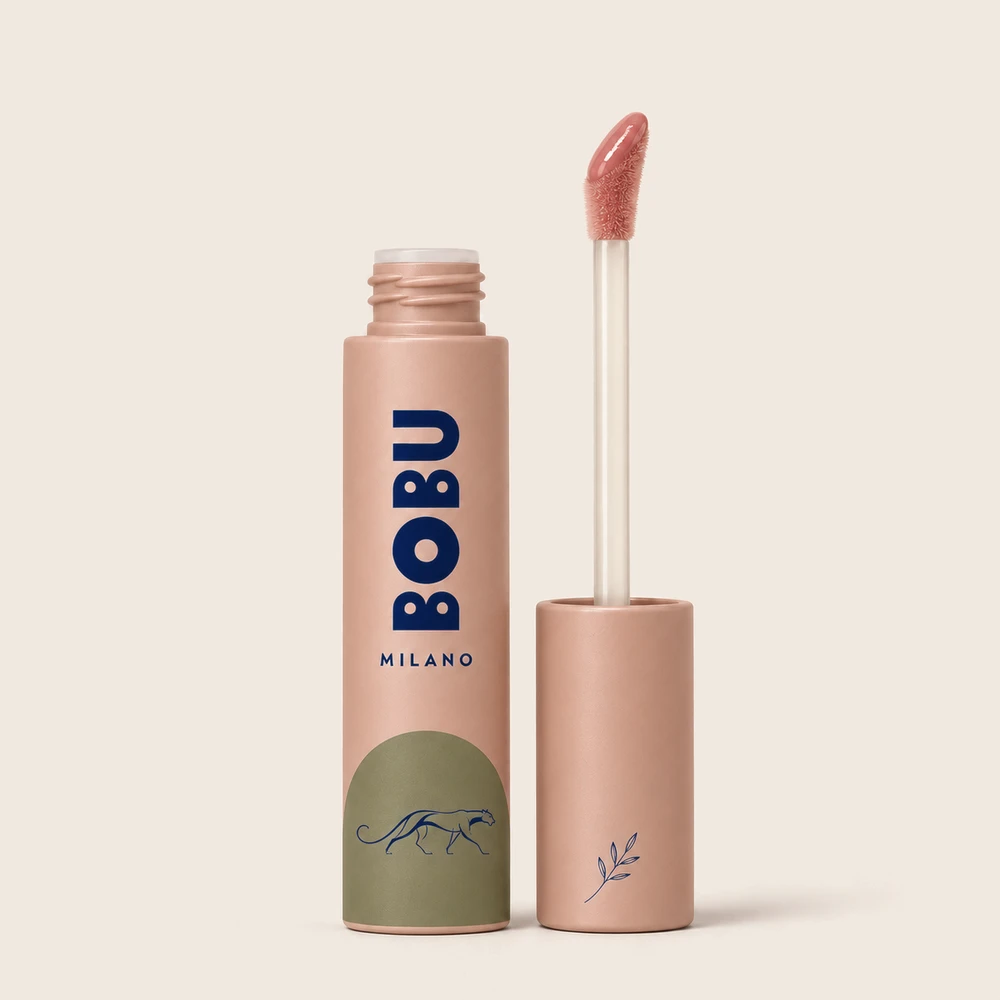
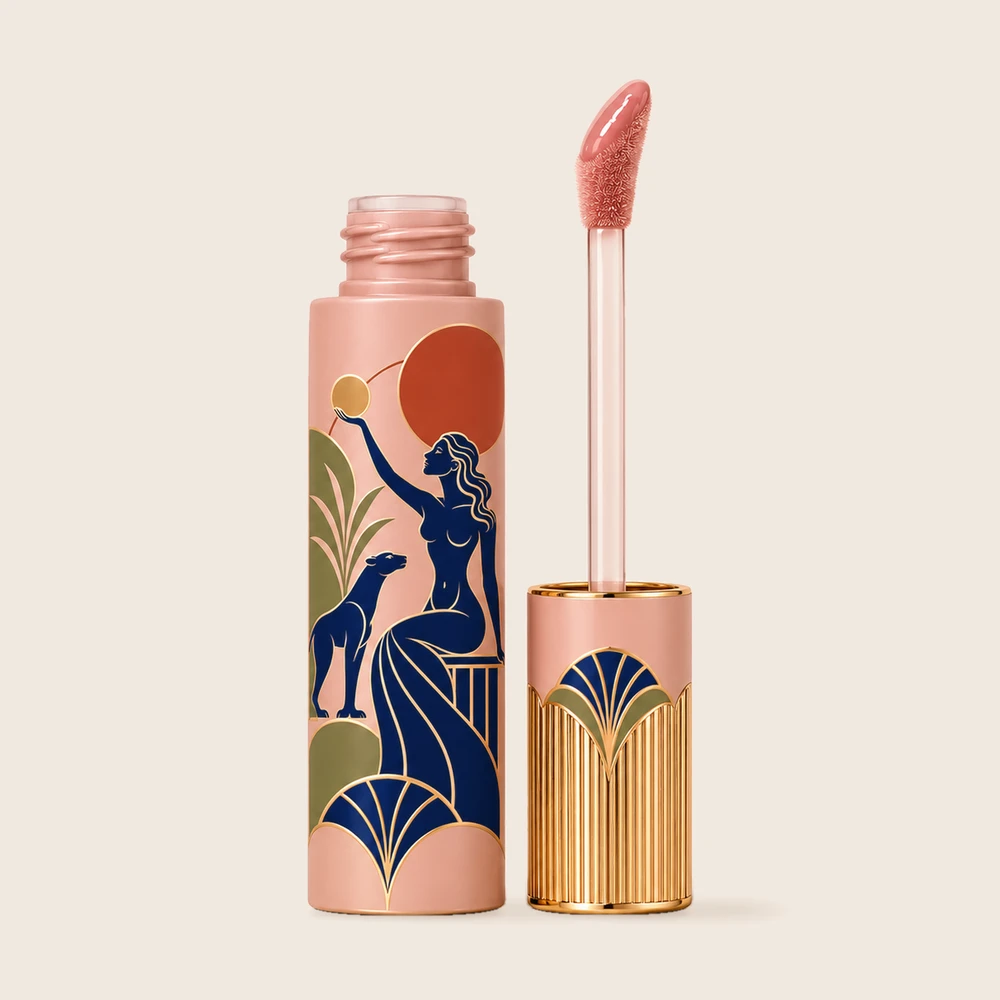
Add gloss shots, make close-ups fill their tiles, clearer swipe dots

Changed region(s): [[0.31, 0.062, 0.775, 0.961]]

diff --git a/store.js b/store.js
@@ -44,8 +44,8 @@ function buttonLink(href,text,cls=''){return `<a class="button ${cls}" href="${h
 function art(name,cls=''){return `<img class="${cls}" src="${A}art/${name}.svg" alt="" loading="lazy">`}
 function stage(p,cls=''){return `<div class="product-stage ${cls}" data-type="${p.id}"><div class="plate">${shotImages(p,'plate-shot')}</div></div>`}
 function filmPlate(){return `<div class="plate film-plate"><video muted loop playsinline preload="metadata" poster="${A}film/formula.jpg" aria-label="BOBU foundation texture and product film"><source src="${FILM}" type="video/mp4"></video><button class="film-play" type="button" aria-label="Play the film"><svg viewBox="0 0 24 24" aria-hidden="true"><path d="M8 5l11 7-11 7z"/></svg></button></div>`}
-const SHOTS={"foundation": "foundation.webp", "concealer": "concealer.webp", "blush": "blush.webp", "lip": "lip-open.webp", "gloss": "gloss.webp"},GALLERIES={"lip": ["lip-open.webp", "lip-top.webp", "lip.webp"], "foundation": ["foundation.webp", "foundation-cap.webp", "foundation-detail.webp", "foundation-range.webp"], "concealer": ["concealer.webp", "concealer-cap.webp", "concealer-detail.webp", "concealer-range.webp"]},COMMUNITY=[];
-function shotImages(p,cls){const list=GALLERIES[p.id]||[SHOTS[p.id]],alt=`${p.name} in BOBU Milano packaging`;if(list.length<2)return `<img class="${cls}" src="${A}shots/${list[0]}" alt="${alt}" draggable="false">`;return `<div class="swipe">${list.map((s,i)=>`<img src="${A}shots/${s}" alt="${i?'':alt}" draggable="false">`).join('')}</div><div class="swipe-dots" aria-hidden="true">${list.map(()=>'<i></i>').join('')}</div>`}
+const SHOTS={"foundation": "foundation.webp", "concealer": "concealer.webp", "blush": "blush.webp", "lip": "lip-open.webp", "gloss": "gloss.webp"},GALLERIES={"lip": ["lip-open.webp", "lip-top.webp", "lip.webp"], "foundation": ["foundation.webp", "foundation-cap.webp", "foundation-detail.webp", "foundation-range.webp"], "concealer": ["concealer.webp", "concealer-cap.webp", "concealer-detail.webp", "concealer-range.webp"], "gloss": ["gloss.webp", "gloss-cap.webp", "gloss-detail.webp", "gloss-macro.webp"]},COMMUNITY=[];
+function shotImages(p,cls){const list=GALLERIES[p.id]||[SHOTS[p.id]],alt=`${p.name} in BOBU Milano packaging`;if(list.length<2)return `<img class="${cls}" src="${A}shots/${list[0]}" alt="${alt}" draggable="false">`;return `<div class="swipe">${list.map((s,i)=>`<img ${/-detail/.test(s)?'class="swipe-fill" ':''}src="${A}shots/${s}" alt="${i?'':alt}" draggable="false">`).join('')}</div><div class="swipe-dots" aria-hidden="true">${list.map(()=>'<i></i>').join('')}</div>`}
 function shotCard(p){return `<article class="product-card shot-card"><a href="product.html?id=${p.id}"><div class="shot is-photo">${shotImages(p,'')}</div><div class="shot-line"><h3>${p.name}</h3><span class="price">${money(p.price)}</span></div></a></article>`}
 function communitySection(){const empty=[['panther-sitting','#f9f4ec'],['gazelle-standing','#e8dfd0'],['woman','#f9f4ec'],['gazelle-lying','#e8dfd0'],['head','#f9f4ec']];return `<section class="section community" id="community"><div class="section-head"><div>${art('panther-stretching','mark')}<p class="eyebrow">COMMUNITY</p><h2>Real people.<br><em>Trying BOBU.</em></h2></div><p>Members try the makeup and show how it wears.</p></div><div class="ugc-rail" tabindex="0" aria-label="Community videos">${empty.map(([figure,ground],i)=>{const c=COMMUNITY[i];return c?`<figure class="ugc"><video src="${A}community/${c.video}" poster="${A}community/${c.poster}" controls playsinline preload="none"></video><figcaption>${c.name} · ${c.product}</figcaption></figure>`:`<div class="ugc ugc-empty" style="--ground:${ground}">${art(figure,'ugc-figure')}<span>Video coming soon</span></div>`}).join('')}</div>${memberTiles()}</section>`}
 function productCard(p){return `<article class="product-card"><div style="position:relative"><a class="product-stage-link" href="product.html?id=${p.id}" aria-label="Explore ${p.name}">${stage(p)}</a><button class="quick-add" data-quick="${p.id}" aria-label="Choose a shade of ${p.name}">+</button></div><div class="product-caption"><div class="product-name-line"><h3><a href="product.html?id=${p.id}">${p.name}</a></h3><span class="price">${money(p.price)}</span></div><p>${p.description}</p><div class="shade-preview" aria-label="${p.shades.length} proposed shades">${p.shades.slice(0,6).map(s=>`<span style="--color:${s[2]}"></span>`).join('')}<small>${p.shades.length} shades</small></div></div></article>`}

diff --git a/cookies.html b/cookies.html
@@ -1,5 +1,5 @@
 <!doctype html>
-<html lang="en"><head><meta charset="utf-8"><meta name="viewport" content="width=device-width,initial-scale=1,viewport-fit=cover"><meta name="theme-color" content="#F9F4EC"><title>Cookie policy · BOBU Milano</title><meta name="description" content="What bobumilano.com stores on your device."><link rel="icon" href="assets/icon.png"><link rel="preload" href="assets/fonts/BOBUSignature-Regular.woff2" as="font" type="font/woff2" crossorigin><link rel="preload" href="assets/fonts/Belleza-Regular.woff2" as="font" type="font/woff2" crossorigin><meta property="og:type" content="website"><meta property="og:title" content="BOBU Milano"><meta property="og:description" content="Makeup formulated just for you. You pick the color, your scan sets the formula."><meta property="og:image" content="https://bobumilano.com/assets/share-2.jpg"><meta property="og:image:width" content="1200"><meta property="og:image:height" content="630"><meta name="twitter:card" content="summary_large_image"><link rel="stylesheet" href="store.css?v=51"></head><body><a class="skip-link" href="#main">Skip to content</a><div id="siteHeader"></div><main id="main" tabindex="-1"><section class="page-intro"><p class="eyebrow">LAST UPDATED 2 NOVEMBER 2026</p><h1>Cookie policy</h1></section><article class="legal">
+<html lang="en"><head><meta charset="utf-8"><meta name="viewport" content="width=device-width,initial-scale=1,viewport-fit=cover"><meta name="theme-color" content="#F9F4EC"><title>Cookie policy · BOBU Milano</title><meta name="description" content="What bobumilano.com stores on your device."><link rel="icon" href="assets/icon.png"><link rel="preload" href="assets/fonts/BOBUSignature-Regular.woff2" as="font" type="font/woff2" crossorigin><link rel="preload" href="assets/fonts/Belleza-Regular.woff2" as="font" type="font/woff2" crossorigin><meta property="og:type" content="website"><meta property="og:title" content="BOBU Milano"><meta property="og:description" content="Makeup formulated just for you. You pick the color, your scan sets the formula."><meta property="og:image" content="https://bobumilano.com/assets/share-2.jpg"><meta property="og:image:width" content="1200"><meta property="og:image:height" content="630"><meta name="twitter:card" content="summary_large_image"><link rel="stylesheet" href="store.css?v=54"></head><body><a class="skip-link" href="#main">Skip to content</a><div id="siteHeader"></div><main id="main" tabindex="-1"><section class="page-intro"><p class="eyebrow">LAST UPDATED 2 NOVEMBER 2026</p><h1>Cookie policy</h1></section><article class="legal">
 <p>This site sets no cookies. It has no analytics, advertising or tracking, so there's nothing to accept.</p>
 <h2>What it stores on your device</h2>
 <p>It keeps these items in your browser's local storage, so the site can do what you asked:</p>
@@ -18,4 +18,4 @@
 <p>Clear this site's data in your browser settings. Your bag and saved items will go with it.</p>
 <h2>If this changes</h2>
 <p>If we ever add analytics or advertising cookies, we'll ask you first and update this page.</p>
-</article></main><div id="siteFooter"></div><dialog id="bagDialog" class="bag-dialog" aria-label="Shopping bag"></dialog><dialog id="menuDialog" class="menu-dialog" aria-label="Navigation menu"></dialog><dialog id="searchDialog" class="search-dialog" aria-label="Search makeup and formulas"></dialog><dialog id="detailDialog" class="detail-dialog" aria-label="BOBU information"></dialog><div id="toast" class="toast" role="status" aria-live="polite"></div><script src="store.js?v=51"></script><script src="motion.js?v=51"></script></body></html>
+</article></main><div id="siteFooter"></div><dialog id="bagDialog" class="bag-dialog" aria-label="Shopping bag"></dialog><dialog id="menuDialog" class="menu-dialog" aria-label="Navigation menu"></dialog><dialog id="searchDialog" class="search-dialog" aria-label="Search makeup and formulas"></dialog><dialog id="detailDialog" class="detail-dialog" aria-label="BOBU information"></dialog><div id="toast" class="toast" role="status" aria-live="polite"></div><script src="store.js?v=54"></script><script src="motion.js?v=54"></script></body></html>

diff --git a/privacy.html b/privacy.html
@@ -1,5 +1,5 @@
 <!doctype html>
-<html lang="en"><head><meta charset="utf-8"><meta name="viewport" content="width=device-width,initial-scale=1,viewport-fit=cover"><meta name="theme-color" content="#F9F4EC"><title>Privacy policy · BOBU Milano</title><meta name="description" content="How bobumilano.com handles personal data."><link rel="icon" href="assets/icon.png"><link rel="preload" href="assets/fonts/BOBUSignature-Regular.woff2" as="font" type="font/woff2" crossorigin><link rel="preload" href="assets/fonts/Belleza-Regular.woff2" as="font" type="font/woff2" crossorigin><meta property="og:type" content="website"><meta property="og:title" content="BOBU Milano"><meta property="og:description" content="Makeup formulated just for you. You pick the color, your scan sets the formula."><meta property="og:image" content="https://bobumilano.com/assets/share-2.jpg"><meta property="og:image:width" content="1200"><meta property="og:image:height" content="630"><meta name="twitter:card" content="summary_large_image"><link rel="stylesheet" href="store.css?v=51"></head><body><a class="skip-link" href="#main">Skip to content</a><div id="siteHeader"></div><main id="main" tabindex="-1"><section class="page-intro"><p class="eyebrow">LAST UPDATED 2 NOVEMBER 2026</p><h1>Privacy policy</h1></section><article class="legal">
+<html lang="en"><head><meta charset="utf-8"><meta name="viewport" content="width=device-width,initial-scale=1,viewport-fit=cover"><meta name="theme-color" content="#F9F4EC"><title>Privacy policy · BOBU Milano</title><meta name="description" content="How bobumilano.com handles personal data."><link rel="icon" href="assets/icon.png"><link rel="preload" href="assets/fonts/BOBUSignature-Regular.woff2" as="font" type="font/woff2" crossorigin><link rel="preload" href="assets/fonts/Belleza-Regular.woff2" as="font" type="font/woff2" crossorigin><meta property="og:type" content="website"><meta property="og:title" content="BOBU Milano"><meta property="og:description" content="Makeup formulated just for you. You pick the color, your scan sets the formula."><meta property="og:image" content="https://bobumilano.com/assets/share-2.jpg"><meta property="og:image:width" content="1200"><meta property="og:image:height" content="630"><meta name="twitter:card" content="summary_large_image"><link rel="stylesheet" href="store.css?v=54"></head><body><a class="skip-link" href="#main">Skip to content</a><div id="siteHeader"></div><main id="main" tabindex="-1"><section class="page-intro"><p class="eyebrow">LAST UPDATED 2 NOVEMBER 2026</p><h1>Privacy policy</h1></section><article class="legal">
 <p>This covers bobumilano.com. It's short because the site collects very little.</p>
 <h2>Who is responsible</h2>
 <p>BOBU Milano runs this website and is the controller of the personal data it handles. Write to <a href="mailto:privacy@bobumilano.com">privacy@bobumilano.com</a>.</p>
@@ -23,4 +23,4 @@
 <p>The BOBU app and its face scan aren't covered by this policy. They will have their own notice.</p>
 <h2>Changes</h2>
 <p>We'll post any change here and update the date above.</p>
-</article></main><div id="siteFooter"></div><dialog id="bagDialog" class="bag-dialog" aria-label="Shopping bag"></dialog><dialog id="menuDialog" class="menu-dialog" aria-label="Navigation menu"></dialog><dialog id="searchDialog" class="search-dialog" aria-label="Search makeup and formulas"></dialog><dialog id="detailDialog" class="detail-dialog" aria-label="BOBU information"></dialog><div id="toast" class="toast" role="status" aria-live="polite"></div><script src="store.js?v=51"></script><script src="motion.js?v=51"></script></body></html>
+</article></main><div id="siteFooter"></div><dialog id="bagDialog" class="bag-dialog" aria-label="Shopping bag"></dialog><dialog id="menuDialog" class="menu-dialog" aria-label="Navigation menu"></dialog><dialog id="searchDialog" class="search-dialog" aria-label="Search makeup and formulas"></dialog><dialog id="detailDialog" class="detail-dialog" aria-label="BOBU information"></dialog><div id="toast" class="toast" role="status" aria-live="polite"></div><script src="store.js?v=54"></script><script src="motion.js?v=54"></script></body></html>

diff --git a/terms.html b/terms.html
@@ -1,5 +1,5 @@
 <!doctype html>
-<html lang="en"><head><meta charset="utf-8"><meta name="viewport" content="width=device-width,initial-scale=1,viewport-fit=cover"><meta name="theme-color" content="#F9F4EC"><title>Terms and conditions · BOBU Milano</title><meta name="description" content="The terms for using bobumilano.com."><link rel="icon" href="assets/icon.png"><link rel="preload" href="assets/fonts/BOBUSignature-Regular.woff2" as="font" type="font/woff2" crossorigin><link rel="preload" href="assets/fonts/Belleza-Regular.woff2" as="font" type="font/woff2" crossorigin><meta property="og:type" content="website"><meta property="og:title" content="BOBU Milano"><meta property="og:description" content="Makeup formulated just for you. You pick the color, your scan sets the formula."><meta property="og:image" content="https://bobumilano.com/assets/share-2.jpg"><meta property="og:image:width" content="1200"><meta property="og:image:height" content="630"><meta name="twitter:card" content="summary_large_image"><link rel="stylesheet" href="store.css?v=51"></head><body><a class="skip-link" href="#main">Skip to content</a><div id="siteHeader"></div><main id="main" tabindex="-1"><section class="page-intro"><p class="eyebrow">LAST UPDATED 2 NOVEMBER 2026</p><h1>Terms and conditions</h1></section><article class="legal">
+<html lang="en"><head><meta charset="utf-8"><meta name="viewport" content="width=device-width,initial-scale=1,viewport-fit=cover"><meta name="theme-color" content="#F9F4EC"><title>Terms and conditions · BOBU Milano</title><meta name="description" content="The terms for using bobumilano.com."><link rel="icon" href="assets/icon.png"><link rel="preload" href="assets/fonts/BOBUSignature-Regular.woff2" as="font" type="font/woff2" crossorigin><link rel="preload" href="assets/fonts/Belleza-Regular.woff2" as="font" type="font/woff2" crossorigin><meta property="og:type" content="website"><meta property="og:title" content="BOBU Milano"><meta property="og:description" content="Makeup formulated just for you. You pick the color, your scan sets the formula."><meta property="og:image" content="https://bobumilano.com/assets/share-2.jpg"><meta property="og:image:width" content="1200"><meta property="og:image:height" content="630"><meta name="twitter:card" content="summary_large_image"><link rel="stylesheet" href="store.css?v=54"></head><body><a class="skip-link" href="#main">Skip to content</a><div id="siteHeader"></div><main id="main" tabindex="-1"><section class="page-intro"><p class="eyebrow">LAST UPDATED 2 NOVEMBER 2026</p><h1>Terms and conditions</h1></section><article class="legal">
 <h2>Who we are</h2>
 <p>This website is run by BOBU Milano. Write to <a href="mailto:hello@bobumilano.com">hello@bobumilano.com</a>.</p>
 <h2>This site is a preview</h2>
@@ -20,4 +20,4 @@
 <p>Nothing here limits the rights you have under your country's consumer law, or any liability the law doesn't allow us to limit.</p>
 <h2>Changes</h2>
 <p>We may update these terms. We'll post any change here and update the date above.</p>
-</article></main><div id="siteFooter"></div><dialog id="bagDialog" class="bag-dialog" aria-label="Shopping bag"></dialog><dialog id="menuDialog" class="menu-dialog" aria-label="Navigation menu"></dialog><dialog id="searchDialog" class="search-dialog" aria-label="Search makeup and formulas"></dialog><dialog id="detailDialog" class="detail-dialog" aria-label="BOBU information"></dialog><div id="toast" class="toast" role="status" aria-live="polite"></div><script src="store.js?v=51"></script><script src="motion.js?v=51"></script></body></html>
+</article></main><div id="siteFooter"></div><dialog id="bagDialog" class="bag-dialog" aria-label="Shopping bag"></dialog><dialog id="menuDialog" class="menu-dialog" aria-label="Navigation menu"></dialog><dialog id="searchDialog" class="search-dialog" aria-label="Search makeup and formulas"></dialog><dialog id="detailDialog" class="detail-dialog" aria-label="BOBU information"></dialog><div id="toast" class="toast" role="status" aria-live="polite"></div><script src="store.js?v=54"></script><script src="motion.js?v=54"></script></body></html>

diff --git a/index.html b/index.html
@@ -1,2 +1,2 @@
 <!doctype html>
-<html lang="en"><head><meta charset="utf-8"><meta name="viewport" content="width=device-width,initial-scale=1,viewport-fit=cover"><meta name="theme-color" content="#F9F4EC"><title>Makeup, made personal · BOBU Milano</title><meta name="description" content="Makeup formulated for you. You pick the color, your scan sets the formula. Or shop five everyday essentials."><link rel="icon" href="assets/icon.png"><link rel="preload" href="assets/fonts/BOBUSignature-Regular.woff2" as="font" type="font/woff2" crossorigin><link rel="preload" href="assets/fonts/Belleza-Regular.woff2" as="font" type="font/woff2" crossorigin><meta property="og:type" content="website"><meta property="og:title" content="BOBU Milano"><meta property="og:description" content="Makeup formulated just for you. You pick the color, your scan sets the formula."><meta property="og:image" content="https://bobumilano.com/assets/share-2.jpg"><meta property="og:image:width" content="1200"><meta property="og:image:height" content="630"><meta name="twitter:card" content="summary_large_image"><link rel="stylesheet" href="store.css?v=51"></head><body><a class="skip-link" href="#main">Skip to content</a><div id="siteHeader"></div><main id="main" tabindex="-1"><noscript>Please enable JavaScript to explore this storefront.</noscript></main><div id="siteFooter"></div><dialog id="bagDialog" class="bag-dialog" aria-label="Shopping bag"></dialog><dialog id="menuDialog" class="menu-dialog" aria-label="Navigation menu"></dialog><dialog id="searchDialog" class="search-dialog" aria-label="Search makeup and formulas"></dialog><dialog id="detailDialog" class="detail-dialog" aria-label="BOBU information"></dialog><div id="toast" class="toast" role="status" aria-live="polite"></div><script src="store.js?v=51"></script><script src="motion.js?v=51"></script></body></html>
+<html lang="en"><head><meta charset="utf-8"><meta name="viewport" content="width=device-width,initial-scale=1,viewport-fit=cover"><meta name="theme-color" content="#F9F4EC"><title>Makeup, made personal · BOBU Milano</title><meta name="description" content="Makeup formulated for you. You pick the color, your scan sets the formula. Or shop five everyday essentials."><link rel="icon" href="assets/icon.png"><link rel="preload" href="assets/fonts/BOBUSignature-Regular.woff2" as="font" type="font/woff2" crossorigin><link rel="preload" href="assets/fonts/Belleza-Regular.woff2" as="font" type="font/woff2" crossorigin><meta property="og:type" content="website"><meta property="og:title" content="BOBU Milano"><meta property="og:description" content="Makeup formulated just for you. You pick the color, your scan sets the formula."><meta property="og:image" content="https://bobumilano.com/assets/share-2.jpg"><meta property="og:image:width" content="1200"><meta property="og:image:height" content="630"><meta name="twitter:card" content="summary_large_image"><link rel="stylesheet" href="store.css?v=54"></head><body><a class="skip-link" href="#main">Skip to content</a><div id="siteHeader"></div><main id="main" tabindex="-1"><noscript>Please enable JavaScript to explore this storefront.</noscript></main><div id="siteFooter"></div><dialog id="bagDialog" class="bag-dialog" aria-label="Shopping bag"></dialog><dialog id="menuDialog" class="menu-dialog" aria-label="Navigation menu"></dialog><dialog id="searchDialog" class="search-dialog" aria-label="Search makeup and formulas"></dialog><dialog id="detailDialog" class="detail-dialog" aria-label="BOBU information"></dialog><div id="toast" class="toast" role="status" aria-live="polite"></div><script src="store.js?v=54"></script><script src="motion.js?v=54"></script></body></html>

diff --git a/checkout.html b/checkout.html
@@ -1,2 +1,2 @@
 <!doctype html>
-<html lang="en"><head><meta charset="utf-8"><meta name="viewport" content="width=device-width,initial-scale=1,viewport-fit=cover"><meta name="theme-color" content="#F9F4EC"><title>Your bag · BOBU Milano</title><meta name="description" content="Shop foundation, concealer, blush, lip color, and gloss. Choose a standard shade or discover personal formulas."><link rel="icon" href="assets/icon.png"><link rel="preload" href="assets/fonts/BOBUSignature-Regular.woff2" as="font" type="font/woff2" crossorigin><link rel="preload" href="assets/fonts/Belleza-Regular.woff2" as="font" type="font/woff2" crossorigin><meta property="og:type" content="website"><meta property="og:title" content="BOBU Milano"><meta property="og:description" content="Makeup formulated just for you. You pick the color, your scan sets the formula."><meta property="og:image" content="https://bobumilano.com/assets/share-2.jpg"><meta property="og:image:width" content="1200"><meta property="og:image:height" content="630"><meta name="twitter:card" content="summary_large_image"><link rel="stylesheet" href="store.css?v=51"></head><body><a class="skip-link" href="#main">Skip to content</a><div id="siteHeader"></div><main id="main" tabindex="-1"><noscript>Please enable JavaScript to explore this storefront.</noscript></main><div id="siteFooter"></div><dialog id="bagDialog" class="bag-dialog" aria-label="Shopping bag"></dialog><dialog id="menuDialog" class="menu-dialog" aria-label="Navigation menu"></dialog><dialog id="searchDialog" class="search-dialog" aria-label="Search makeup and formulas"></dialog><dialog id="detailDialog" class="detail-dialog" aria-label="BOBU information"></dialog><div id="toast" class="toast" role="status" aria-live="polite"></div><script src="store.js?v=51"></script><script src="motion.js?v=51"></script></body></html>
+<html lang="en"><head><meta charset="utf-8"><meta name="viewport" content="width=device-width,initial-scale=1,viewport-fit=cover"><meta name="theme-color" content="#F9F4EC"><title>Your bag · BOBU Milano</title><meta name="description" content="Shop foundation, concealer, blush, lip color, and gloss. Choose a standard shade or discover personal formulas."><link rel="icon" href="assets/icon.png"><link rel="preload" href="assets/fonts/BOBUSignature-Regular.woff2" as="font" type="font/woff2" crossorigin><link rel="preload" href="assets/fonts/Belleza-Regular.woff2" as="font" type="font/woff2" crossorigin><meta property="og:type" content="website"><meta property="og:title" content="BOBU Milano"><meta property="og:description" content="Makeup formulated just for you. You pick the color, your scan sets the formula."><meta property="og:image" content="https://bobumilano.com/assets/share-2.jpg"><meta property="og:image:width" content="1200"><meta property="og:image:height" content="630"><meta name="twitter:card" content="summary_large_image"><link rel="stylesheet" href="store.css?v=54"></head><body><a class="skip-link" href="#main">Skip to content</a><div id="siteHeader"></div><main id="main" tabindex="-1"><noscript>Please enable JavaScript to explore this storefront.</noscript></main><div id="siteFooter"></div><dialog id="bagDialog" class="bag-dialog" aria-label="Shopping bag"></dialog><dialog id="menuDialog" class="menu-dialog" aria-label="Navigation menu"></dialog><dialog id="searchDialog" class="search-dialog" aria-label="Search makeup and formulas"></dialog><dialog id="detailDialog" class="detail-dialog" aria-label="BOBU information"></dialog><div id="toast" class="toast" role="status" aria-live="polite"></div><script src="store.js?v=54"></script><script src="motion.js?v=54"></script></body></html>

diff --git a/about.html b/about.html
@@ -1,2 +1,2 @@
 <!doctype html>
-<html lang="en"><head><meta charset="utf-8"><meta name="viewport" content="width=device-width,initial-scale=1,viewport-fit=cover"><meta name="theme-color" content="#F9F4EC"><title>About · BOBU Milano</title><meta name="description" content="BOBU Milano makes personal makeup. You pick the color, your scan sets the formula."><link rel="icon" href="assets/icon.png"><link rel="preload" href="assets/fonts/BOBUSignature-Regular.woff2" as="font" type="font/woff2" crossorigin><link rel="preload" href="assets/fonts/Belleza-Regular.woff2" as="font" type="font/woff2" crossorigin><meta property="og:type" content="website"><meta property="og:title" content="BOBU Milano"><meta property="og:description" content="Makeup formulated just for you. You pick the color, your scan sets the formula."><meta property="og:image" content="https://bobumilano.com/assets/share-2.jpg"><meta property="og:image:width" content="1200"><meta property="og:image:height" content="630"><meta name="twitter:card" content="summary_large_image"><link rel="stylesheet" href="store.css?v=51"></head><body><a class="skip-link" href="#main">Skip to content</a><div id="siteHeader"></div><main id="main" tabindex="-1"><noscript>Please enable JavaScript to explore this storefront.</noscript></main><div id="siteFooter"></div><dialog id="bagDialog" class="bag-dialog" aria-label="Shopping bag"></dialog><dialog id="menuDialog" class="menu-dialog" aria-label="Navigation menu"></dialog><dialog id="searchDialog" class="search-dialog" aria-label="Search makeup and formulas"></dialog><dialog id="detailDialog" class="detail-dialog" aria-label="BOBU information"></dialog><div id="toast" class="toast" role="status" aria-live="polite"></div><script src="store.js?v=51"></script><script src="motion.js?v=51"></script></body></html>
+<html lang="en"><head><meta charset="utf-8"><meta name="viewport" content="width=device-width,initial-scale=1,viewport-fit=cover"><meta name="theme-color" content="#F9F4EC"><title>About · BOBU Milano</title><meta name="description" content="BOBU Milano makes personal makeup. You pick the color, your scan sets the formula."><link rel="icon" href="assets/icon.png"><link rel="preload" href="assets/fonts/BOBUSignature-Regular.woff2" as="font" type="font/woff2" crossorigin><link rel="preload" href="assets/fonts/Belleza-Regular.woff2" as="font" type="font/woff2" crossorigin><meta property="og:type" content="website"><meta property="og:title" content="BOBU Milano"><meta property="og:description" content="Makeup formulated just for you. You pick the color, your scan sets the formula."><meta property="og:image" content="https://bobumilano.com/assets/share-2.jpg"><meta property="og:image:width" content="1200"><meta property="og:image:height" content="630"><meta name="twitter:card" content="summary_large_image"><link rel="stylesheet" href="store.css?v=54"></head><body><a class="skip-link" href="#main">Skip to content</a><div id="siteHeader"></div><main id="main" tabindex="-1"><noscript>Please enable JavaScript to explore this storefront.</noscript></main><div id="siteFooter"></div><dialog id="bagDialog" class="bag-dialog" aria-label="Shopping bag"></dialog><dialog id="menuDialog" class="menu-dialog" aria-label="Navigation menu"></dialog><dialog id="searchDialog" class="search-dialog" aria-label="Search makeup and formulas"></dialog><dialog id="detailDialog" class="detail-dialog" aria-label="BOBU information"></dialog><div id="toast" class="toast" role="status" aria-live="polite"></div><script src="store.js?v=54"></script><script src="motion.js?v=54"></script></body></html>

diff --git a/shop.html b/shop.html
@@ -1,2 +1,2 @@
 <!doctype html>
-<html lang="en"><head><meta charset="utf-8"><meta name="viewport" content="width=device-width,initial-scale=1,viewport-fit=cover"><meta name="theme-color" content="#F9F4EC"><title>Shop makeup · BOBU Milano</title><meta name="description" content="Shop foundation, concealer, blush, lip color and gloss in standard shades."><link rel="icon" href="assets/icon.png"><link rel="preload" href="assets/fonts/BOBUSignature-Regular.woff2" as="font" type="font/woff2" crossorigin><link rel="preload" href="assets/fonts/Belleza-Regular.woff2" as="font" type="font/woff2" crossorigin><meta property="og:type" content="website"><meta property="og:title" content="BOBU Milano"><meta property="og:description" content="Makeup formulated just for you. You pick the color, your scan sets the formula."><meta property="og:image" content="https://bobumilano.com/assets/share-2.jpg"><meta property="og:image:width" content="1200"><meta property="og:image:height" content="630"><meta name="twitter:card" content="summary_large_image"><link rel="stylesheet" href="store.css?v=51"></head><body><a class="skip-link" href="#main">Skip to content</a><div id="siteHeader"></div><main id="main" tabindex="-1"><noscript>Please enable JavaScript to explore this storefront.</noscript></main><div id="siteFooter"></div><dialog id="bagDialog" class="bag-dialog" aria-label="Shopping bag"></dialog><dialog id="menuDialog" class="menu-dialog" aria-label="Navigation menu"></dialog><dialog id="searchDialog" class="search-dialog" aria-label="Search makeup and formulas"></dialog><dialog id="detailDialog" class="detail-dialog" aria-label="BOBU information"></dialog><div id="toast" class="toast" role="status" aria-live="polite"></div><script src="store.js?v=51"></script><script src="motion.js?v=51"></script></body></html>
+<html lang="en"><head><meta charset="utf-8"><meta name="viewport" content="width=device-width,initial-scale=1,viewport-fit=cover"><meta name="theme-color" content="#F9F4EC"><title>Shop makeup · BOBU Milano</title><meta name="description" content="Shop foundation, concealer, blush, lip color and gloss in standard shades."><link rel="icon" href="assets/icon.png"><link rel="preload" href="assets/fonts/BOBUSignature-Regular.woff2" as="font" type="font/woff2" crossorigin><link rel="preload" href="assets/fonts/Belleza-Regular.woff2" as="font" type="font/woff2" crossorigin><meta property="og:type" content="website"><meta property="og:title" content="BOBU Milano"><meta property="og:description" content="Makeup formulated just for you. You pick the color, your scan sets the formula."><meta property="og:image" content="https://bobumilano.com/assets/share-2.jpg"><meta property="og:image:width" content="1200"><meta property="og:image:height" content="630"><meta name="twitter:card" content="summary_large_image"><link rel="stylesheet" href="store.css?v=54"></head><body><a class="skip-link" href="#main">Skip to content</a><div id="siteHeader"></div><main id="main" tabindex="-1"><noscript>Please enable JavaScript to explore this storefront.</noscript></main><div id="siteFooter"></div><dialog id="bagDialog" class="bag-dialog" aria-label="Shopping bag"></dialog><dialog id="menuDialog" class="menu-dialog" aria-label="Navigation menu"></dialog><dialog id="searchDialog" class="search-dialog" aria-label="Search makeup and formulas"></dialog><dialog id="detailDialog" class="detail-dialog" aria-label="BOBU information"></dialog><div id="toast" class="toast" role="status" aria-live="polite"></div><script src="store.js?v=54"></script><script src="motion.js?v=54"></script></body></html>

diff --git a/personalize.html b/personalize.html
@@ -1,2 +1,2 @@
 <!doctype html>
-<html lang="en"><head><meta charset="utf-8"><meta name="viewport" content="width=device-width,initial-scale=1,viewport-fit=cover"><meta name="theme-color" content="#F9F4EC"><title>BOBU Atelier · BOBU Milano</title><meta name="description" content="Custom makeup formulas. You pick the color, your scan sets the formula."><link rel="icon" href="assets/icon.png"><link rel="preload" href="assets/fonts/BOBUSignature-Regular.woff2" as="font" type="font/woff2" crossorigin><link rel="preload" href="assets/fonts/Belleza-Regular.woff2" as="font" type="font/woff2" crossorigin><meta property="og:type" content="website"><meta property="og:title" content="BOBU Milano"><meta property="og:description" content="Makeup formulated just for you. You pick the color, your scan sets the formula."><meta property="og:image" content="https://bobumilano.com/assets/share-2.jpg"><meta property="og:image:width" content="1200"><meta property="og:image:height" content="630"><meta name="twitter:card" content="summary_large_image"><link rel="stylesheet" href="store.css?v=51"></head><body><a class="skip-link" href="#main">Skip to content</a><div id="siteHeader"></div><main id="main" tabindex="-1"><noscript>Please enable JavaScript to explore this storefront.</noscript></main><div id="siteFooter"></div><dialog id="bagDialog" class="bag-dialog" aria-label="Shopping bag"></dialog><dialog id="menuDialog" class="menu-dialog" aria-label="Navigation menu"></dialog><dialog id="searchDialog" class="search-dialog" aria-label="Search makeup and formulas"></dialog><dialog id="detailDialog" class="detail-dialog" aria-label="BOBU information"></dialog><div id="toast" class="toast" role="status" aria-live="polite"></div><script src="store.js?v=51"></script><script src="motion.js?v=51"></script></body></html>
+<html lang="en"><head><meta charset="utf-8"><meta name="viewport" content="width=device-width,initial-scale=1,viewport-fit=cover"><meta name="theme-color" content="#F9F4EC"><title>BOBU Atelier · BOBU Milano</title><meta name="description" content="Custom makeup formulas. You pick the color, your scan sets the formula."><link rel="icon" href="assets/icon.png"><link rel="preload" href="assets/fonts/BOBUSignature-Regular.woff2" as="font" type="font/woff2" crossorigin><link rel="preload" href="assets/fonts/Belleza-Regular.woff2" as="font" type="font/woff2" crossorigin><meta property="og:type" content="website"><meta property="og:title" content="BOBU Milano"><meta property="og:description" content="Makeup formulated just for you. You pick the color, your scan sets the formula."><meta property="og:image" content="https://bobumilano.com/assets/share-2.jpg"><meta property="og:image:width" content="1200"><meta property="og:image:height" content="630"><meta name="twitter:card" content="summary_large_image"><link rel="stylesheet" href="store.css?v=54"></head><body><a class="skip-link" href="#main">Skip to content</a><div id="siteHeader"></div><main id="main" tabindex="-1"><noscript>Please enable JavaScript to explore this storefront.</noscript></main><div id="siteFooter"></div><dialog id="bagDialog" class="bag-dialog" aria-label="Shopping bag"></dialog><dialog id="menuDialog" class="menu-dialog" aria-label="Navigation menu"></dialog><dialog id="searchDialog" class="search-dialog" aria-label="Search makeup and formulas"></dialog><dialog id="detailDialog" class="detail-dialog" aria-label="BOBU information"></dialog><div id="toast" class="toast" role="status" aria-live="polite"></div><script src="store.js?v=54"></script><script src="motion.js?v=54"></script></body></html>

diff --git a/formulas.html b/formulas.html
@@ -1,2 +1,2 @@
 <!doctype html>
-<html lang="en"><head><meta charset="utf-8"><meta name="viewport" content="width=device-width,initial-scale=1,viewport-fit=cover"><meta name="theme-color" content="#F9F4EC"><title>The Formula Club · BOBU Milano</title><meta name="description" content="Find a formula by its ID, name or creator."><link rel="icon" href="assets/icon.png"><link rel="preload" href="assets/fonts/BOBUSignature-Regular.woff2" as="font" type="font/woff2" crossorigin><link rel="preload" href="assets/fonts/Belleza-Regular.woff2" as="font" type="font/woff2" crossorigin><meta property="og:type" content="website"><meta property="og:title" content="BOBU Milano"><meta property="og:description" content="Makeup formulated just for you. You pick the color, your scan sets the formula."><meta property="og:image" content="https://bobumilano.com/assets/share-2.jpg"><meta property="og:image:width" content="1200"><meta property="og:image:height" content="630"><meta name="twitter:card" content="summary_large_image"><link rel="stylesheet" href="store.css?v=51"></head><body><a class="skip-link" href="#main">Skip to content</a><div id="siteHeader"></div><main id="main" tabindex="-1"><noscript>Please enable JavaScript to explore this storefront.</noscript></main><div id="siteFooter"></div><dialog id="bagDialog" class="bag-dialog" aria-label="Shopping bag"></dialog><dialog id="menuDialog" class="menu-dialog" aria-label="Navigation menu"></dialog><dialog id="searchDialog" class="search-dialog" aria-label="Search makeup and formulas"></dialog><dialog id="detailDialog" class="detail-dialog" aria-label="BOBU information"></dialog><div id="toast" class="toast" role="status" aria-live="polite"></div><script src="store.js?v=51"></script><script src="motion.js?v=51"></script></body></html>
+<html lang="en"><head><meta charset="utf-8"><meta name="viewport" content="width=device-width,initial-scale=1,viewport-fit=cover"><meta name="theme-color" content="#F9F4EC"><title>The Formula Club · BOBU Milano</title><meta name="description" content="Find a formula by its ID, name or creator."><link rel="icon" href="assets/icon.png"><link rel="preload" href="assets/fonts/BOBUSignature-Regular.woff2" as="font" type="font/woff2" crossorigin><link rel="preload" href="assets/fonts/Belleza-Regular.woff2" as="font" type="font/woff2" crossorigin><meta property="og:type" content="website"><meta property="og:title" content="BOBU Milano"><meta property="og:description" content="Makeup formulated just for you. You pick the color, your scan sets the formula."><meta property="og:image" content="https://bobumilano.com/assets/share-2.jpg"><meta property="og:image:width" content="1200"><meta property="og:image:height" content="630"><meta name="twitter:card" content="summary_large_image"><link rel="stylesheet" href="store.css?v=54"></head><body><a class="skip-link" href="#main">Skip to content</a><div id="siteHeader"></div><main id="main" tabindex="-1"><noscript>Please enable JavaScript to explore this storefront.</noscript></main><div id="siteFooter"></div><dialog id="bagDialog" class="bag-dialog" aria-label="Shopping bag"></dialog><dialog id="menuDialog" class="menu-dialog" aria-label="Navigation menu"></dialog><dialog id="searchDialog" class="search-dialog" aria-label="Search makeup and formulas"></dialog><dialog id="detailDialog" class="detail-dialog" aria-label="BOBU information"></dialog><div id="toast" class="toast" role="status" aria-live="polite"></div><script src="store.js?v=54"></script><script src="motion.js?v=54"></script></body></html>

diff --git a/product.html b/product.html
@@ -1,2 +1,2 @@
 <!doctype html>
-<html lang="en"><head><meta charset="utf-8"><meta name="viewport" content="width=device-width,initial-scale=1,viewport-fit=cover"><meta name="theme-color" content="#F9F4EC"><title>Product · BOBU Milano</title><meta name="description" content="Shades, finish and how to wear it."><link rel="icon" href="assets/icon.png"><link rel="preload" href="assets/fonts/BOBUSignature-Regular.woff2" as="font" type="font/woff2" crossorigin><link rel="preload" href="assets/fonts/Belleza-Regular.woff2" as="font" type="font/woff2" crossorigin><meta property="og:type" content="website"><meta property="og:title" content="BOBU Milano"><meta property="og:description" content="Makeup formulated just for you. You pick the color, your scan sets the formula."><meta property="og:image" content="https://bobumilano.com/assets/share-2.jpg"><meta property="og:image:width" content="1200"><meta property="og:image:height" content="630"><meta name="twitter:card" content="summary_large_image"><link rel="stylesheet" href="store.css?v=51"></head><body><a class="skip-link" href="#main">Skip to content</a><div id="siteHeader"></div><main id="main" tabindex="-1"><noscript>Please enable JavaScript to explore this storefront.</noscript></main><div id="siteFooter"></div><dialog id="bagDialog" class="bag-dialog" aria-label="Shopping bag"></dialog><dialog id="menuDialog" class="menu-dialog" aria-label="Navigation menu"></dialog><dialog id="searchDialog" class="search-dialog" aria-label="Search makeup and formulas"></dialog><dialog id="detailDialog" class="detail-dialog" aria-label="BOBU information"></dialog><div id="toast" class="toast" role="status" aria-live="polite"></div><script src="store.js?v=51"></script><script src="motion.js?v=51"></script></body></html>
+<html lang="en"><head><meta charset="utf-8"><meta name="viewport" content="width=device-width,initial-scale=1,viewport-fit=cover"><meta name="theme-color" content="#F9F4EC"><title>Product · BOBU Milano</title><meta name="description" content="Shades, finish and how to wear it."><link rel="icon" href="assets/icon.png"><link rel="preload" href="assets/fonts/BOBUSignature-Regular.woff2" as="font" type="font/woff2" crossorigin><link rel="preload" href="assets/fonts/Belleza-Regular.woff2" as="font" type="font/woff2" crossorigin><meta property="og:type" content="website"><meta property="og:title" content="BOBU Milano"><meta property="og:description" content="Makeup formulated just for you. You pick the color, your scan sets the formula."><meta property="og:image" content="https://bobumilano.com/assets/share-2.jpg"><meta property="og:image:width" content="1200"><meta property="og:image:height" content="630"><meta name="twitter:card" content="summary_large_image"><link rel="stylesheet" href="store.css?v=54"></head><body><a class="skip-link" href="#main">Skip to content</a><div id="siteHeader"></div><main id="main" tabindex="-1"><noscript>Please enable JavaScript to explore this storefront.</noscript></main><div id="siteFooter"></div><dialog id="bagDialog" class="bag-dialog" aria-label="Shopping bag"></dialog><dialog id="menuDialog" class="menu-dialog" aria-label="Navigation menu"></dialog><dialog id="searchDialog" class="search-dialog" aria-label="Search makeup and formulas"></dialog><dialog id="detailDialog" class="detail-dialog" aria-label="BOBU information"></dialog><div id="toast" class="toast" role="status" aria-live="polite"></div><script src="store.js?v=54"></script><script src="motion.js?v=54"></script></body></html>

diff --git a/shelf.html b/shelf.html
@@ -1,2 +1,2 @@
 <!doctype html>
-<html lang="en"><head><meta charset="utf-8"><meta name="viewport" content="width=device-width,initial-scale=1,viewport-fit=cover"><meta name="theme-color" content="#F9F4EC"><title>Your formula shelf · BOBU Milano</title><meta name="description" content="The formulas you saved."><link rel="icon" href="assets/icon.png"><link rel="preload" href="assets/fonts/BOBUSignature-Regular.woff2" as="font" type="font/woff2" crossorigin><link rel="preload" href="assets/fonts/Belleza-Regular.woff2" as="font" type="font/woff2" crossorigin><meta property="og:type" content="website"><meta property="og:title" content="BOBU Milano"><meta property="og:description" content="Makeup formulated just for you. You pick the color, your scan sets the formula."><meta property="og:image" content="https://bobumilano.com/assets/share-2.jpg"><meta property="og:image:width" content="1200"><meta property="og:image:height" content="630"><meta name="twitter:card" content="summary_large_image"><link rel="stylesheet" href="store.css?v=51"></head><body><a class="skip-link" href="#main">Skip to content</a><div id="siteHeader"></div><main id="main" tabindex="-1"><noscript>Please enable JavaScript to explore this storefront.</noscript></main><div id="siteFooter"></div><dialog id="bagDialog" class="bag-dialog" aria-label="Shopping bag"></dialog><dialog id="menuDialog" class="menu-dialog" aria-label="Navigation menu"></dialog><dialog id="searchDialog" class="search-dialog" aria-label="Search makeup and formulas"></dialog><dialog id="detailDialog" class="detail-dialog" aria-label="BOBU information"></dialog><div id="toast" class="toast" role="status" aria-live="polite"></div><script src="store.js?v=51"></script><script src="motion.js?v=51"></script></body></html>
+<html lang="en"><head><meta charset="utf-8"><meta name="viewport" content="width=device-width,initial-scale=1,viewport-fit=cover"><meta name="theme-color" content="#F9F4EC"><title>Your formula shelf · BOBU Milano</title><meta name="description" content="The formulas you saved."><link rel="icon" href="assets/icon.png"><link rel="preload" href="assets/fonts/BOBUSignature-Regular.woff2" as="font" type="font/woff2" crossorigin><link rel="preload" href="assets/fonts/Belleza-Regular.woff2" as="font" type="font/woff2" crossorigin><meta property="og:type" content="website"><meta property="og:title" content="BOBU Milano"><meta property="og:description" content="Makeup formulated just for you. You pick the color, your scan sets the formula."><meta property="og:image" content="https://bobumilano.com/assets/share-2.jpg"><meta property="og:image:width" content="1200"><meta property="og:image:height" content="630"><meta name="twitter:card" content="summary_large_image"><link rel="stylesheet" href="store.css?v=54"></head><body><a class="skip-link" href="#main">Skip to content</a><div id="siteHeader"></div><main id="main" tabindex="-1"><noscript>Please enable JavaScript to explore this storefront.</noscript></main><div id="siteFooter"></div><dialog id="bagDialog" class="bag-dialog" aria-label="Shopping bag"></dialog><dialog id="menuDialog" class="menu-dialog" aria-label="Navigation menu"></dialog><dialog id="searchDialog" class="search-dialog" aria-label="Search makeup and formulas"></dialog><dialog id="detailDialog" class="detail-dialog" aria-label="BOBU information"></dialog><div id="toast" class="toast" role="status" aria-live="polite"></div><script src="store.js?v=54"></script><script src="motion.js?v=54"></script></body></html>
